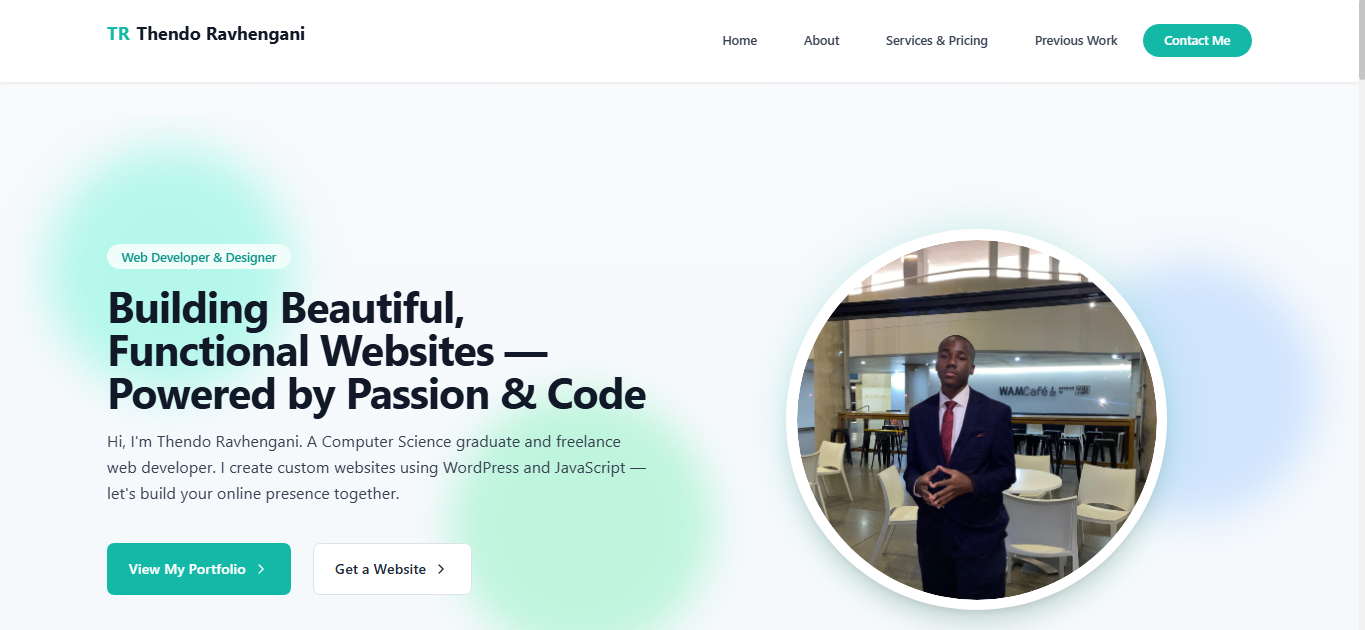
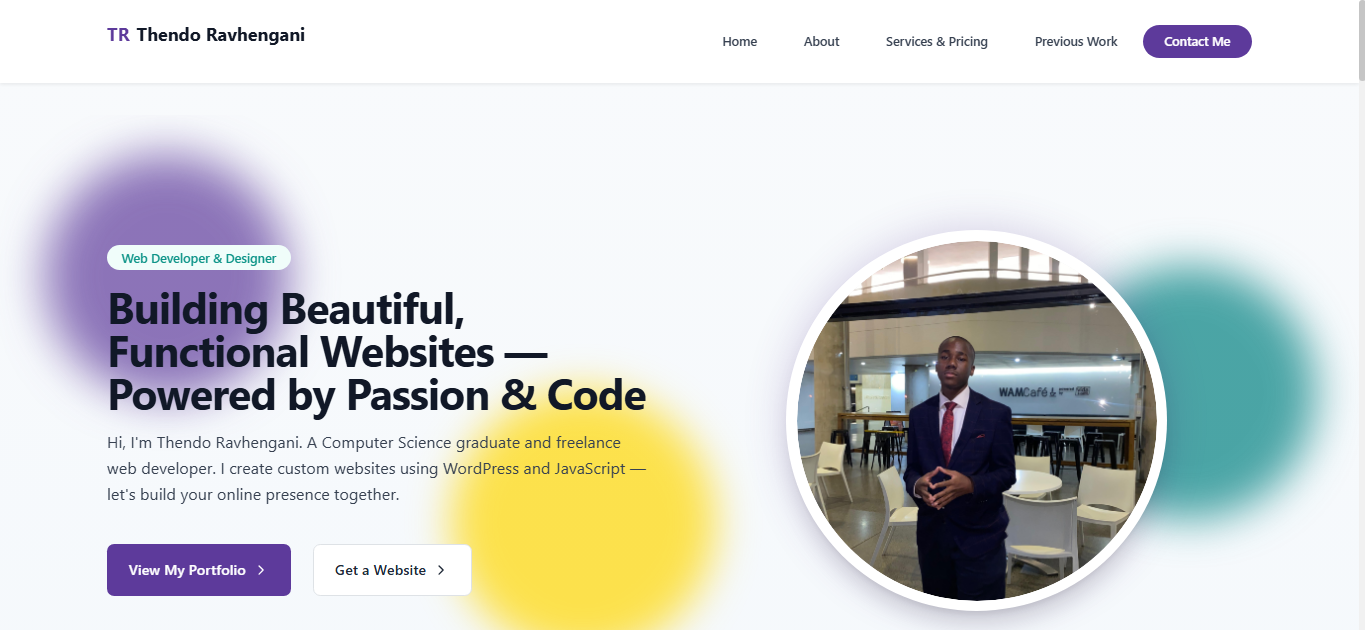
Update button styles and colors in ContactForm and WorkPage components

diff --git a/src/components/WorkPage.jsx b/src/components/WorkPage.jsx
@@ -28,6 +28,7 @@ import project1 from "../assets/witssdasm.png";
 import project3 from "../assets/phapano.png";
 import project2 from "../assets/fat-guys.jpg";
 import commongrounds from "../assets/commongrounds.png";
+import campusSafety from "../assets/campusSafety.png";
 import testimonial1 from "../assets/profile.jpg";
 import testimonial2 from "../assets/profile.jpg";
 import testimonial3 from "../assets/profile.jpg";
@@ -137,7 +138,7 @@ export default function WorkPage() {
     custom: [
       {
         title: "Campus Safety App",
-        image: testimonial3,
+        image: campusSafety,
         description:
           "Real-time campus security application with incident reporting.",
         technologies: ["React", "Node.js", "MongoDB", "Express"],
@@ -181,7 +182,7 @@ export default function WorkPage() {
         "Contact form",
         "Social media integration",
       ],
-      color: "from-teal-500 to-emerald-500",
+      color: "from-teal-600 to-emerald-600",
     },
     {
       title: "Business Website",
@@ -294,26 +295,26 @@ export default function WorkPage() {
               href="#"
               className="text-xl font-bold text-gray-900 flex items-center gap-2 no-underline"
             >
-              <p className="text-teal-500 no-underline">TR</p>
+              <p className="text-[#5D3A9B] no-underline">TR</p>
               <p className="hidden sm:inline no-underline">Thendo Ravhengani</p>
             </a>
 
             <nav className="hidden md:flex items-center space-x-1">
               <button
                 onClick={() => scrollToSection("home")}
-                className="px-4 py-2 text-sm font-medium text-gray-700 hover:text-teal-600 transition-colors"
+                className="px-4 py-2 text-sm font-medium text-gray-700 hover:text-[#5D3A9B] transition-colors"
               >
                 Home
               </button>
               <button
                 onClick={() => scrollToSection("about")}
-                className="px-4 py-2 text-sm font-medium text-gray-700 hover:text-teal-600 transition-colors"
+                className="px-4 py-2 text-sm font-medium text-gray-700 hover:text-[#5D3A9B] transition-colors"
               >
                 About
               </button>
               <button
                 onClick={() => scrollToSection("services")}
-                className="px-4 py-2 text-sm font-medium text-gray-700 hover:text-teal-600 transition-colors"
+                className="px-4 py-2 text-sm font-medium text-gray-700 hover:text-[#5D3A9B] transition-colors"
               >
                 Services & Pricing 
               </button>
@@ -325,13 +326,13 @@ export default function WorkPage() {
               </button> */}
               <button
                 onClick={() => scrollToSection("portfolio")}
-                className="px-4 py-2 text-sm font-medium text-gray-700 hover:text-teal-600 transition-colors"
+                className="px-4 py-2 text-sm font-medium text-gray-700 hover:text-[#5D3A9B] transition-colors"
               >
                 Previous Work
               </button>
               <button
                 onClick={() => scrollToSection("contact")}
-                className="ml-2 px-4 py-2 text-sm font-medium bg-teal-500 text-white rounded-full hover:bg-teal-600 transition-colors"
+                className="ml-2 px-4 py-2 text-sm font-medium bg-[#5D3A9B] text-white rounded-full hover:bg-[#9668e6] transition-colors"
               >
                 Contact Me
               </button>
@@ -363,9 +364,9 @@ export default function WorkPage() {
         <section id="home" className="relative overflow-hidden py-20 md:py-32">
           {/* Animated background elements */}
           <div className="absolute inset-0 z-0">
-            <div className="absolute top-20 left-10 w-64 h-64 rounded-full bg-teal-200 mix-blend-multiply filter blur-xl opacity-70 animate-blob"></div>
-            <div className="absolute top-40 right-10 w-72 h-72 rounded-full bg-blue-200 mix-blend-multiply filter blur-xl opacity-70 animate-blob animation-delay-2000"></div>
-            <div className="absolute bottom-20 left-1/3 w-80 h-80 rounded-full bg-emerald-200 mix-blend-multiply filter blur-xl opacity-70 animate-blob animation-delay-4000"></div>
+            <div className="absolute top-20 left-10 w-64 h-64 rounded-full bg-[#5D3A9B] mix-blend-multiply filter blur-xl opacity-70 animate-blob"></div>
+            <div className="absolute top-40 right-10 w-72 h-72 rounded-full bg-[#008080] mix-blend-multiply filter blur-xl opacity-70 animate-blob animation-delay-2000"></div>
+            <div className="absolute bottom-20 left-1/3 w-80 h-80 rounded-full bg-[#FFD700] mix-blend-multiply filter blur-xl opacity-70 animate-blob animation-delay-4000"></div>
           </div>
 
           <div className="container mx-auto px-4 md:px-6 relative z-10">
@@ -394,7 +395,7 @@ export default function WorkPage() {
                   <div className="flex flex-wrap gap-4 pt-4">
                     <a
                       href="/"
-                      className="px-6 py-3 text-base no-underline font-medium bg-teal-500 text-white rounded-lg hover:bg-teal-600 transition-colors flex items-center gap-2"
+                      className="px-6 py-3 text-base no-underline font-medium bg-[#5D3A9B] text-white rounded-lg hover:bg-[#9d70f1] transition-colors flex items-center gap-2"
                     >
                       View My Portfolio
                       <ChevronRight size={18} />
@@ -417,7 +418,7 @@ export default function WorkPage() {
                 className="relative mx-auto lg:ml-auto"
               >
                 <div className="relative">
-                  <div className="absolute inset-0 bg-gradient-to-br from-teal-500 to-emerald-500 rounded-full blur-xl opacity-20 animate-pulse"></div>
+                  <div className="absolute inset-0 bg-gradient-to-br from-[#5D3A9B] to-[#422674] rounded-full blur-xl opacity-20 animate-pulse"></div>
                   <div className="relative bg-white p-2 rounded-full shadow-xl">
                     <div className="rounded-full overflow-hidden border-4 border-white shadow-inner">
                       <img
@@ -447,12 +448,12 @@ export default function WorkPage() {
         >
           <div className="container mx-auto px-4 md:px-6">
             <div className="flex flex-col items-center justify-center space-y-4 text-center mb-12">
-              <div className="inline-block bg-gradient-to-r from-teal-500/10 to-emerald-500/10 px-4 py-1.5 rounded-full">
-                <h2 className="text-3xl font-bold tracking-tight bg-clip-text text-transparent bg-gradient-to-r from-teal-600 to-emerald-600">
+              <div className="inline-block bg-gradient-to-r from-[#5D3A9B]/10 to-[#5D3A9B]/10 px-4 py-1.5 rounded-full">
+                <h2 className="text-3xl font-bold tracking-tight bg-clip-text text-transparent bg-gradient-to-r from-[#7c5cb4] to-[#5D3A9B]">
                   Who I Am
                 </h2>
               </div>
-              <div className="h-1 w-20 bg-gradient-to-r from-teal-500 to-emerald-500 rounded-full my-2"></div>
+              <div className="h-1 w-20 bg-gradient-to-r from-[#7c5cb4] to-[#5D3A9B] rounded-full my-2"></div>
             </div>
 
             <div className="grid md:grid-cols-2 gap-12 items-center">
@@ -506,7 +507,7 @@ export default function WorkPage() {
                   </div>
                 </div>
                 <a href="/#education" className=" block no-underline mt-3">
-                  <div className="bg-gradient-to-r from-teal-50 to-emerald-50 rounded-lg p-6">
+                  <div className="bg-gradient-to-r from-[#7c5cb4]/5 to-[#5D3A9B]/5 rounded-lg p-6">
                     <h4 className="font-bold text-gray-800 mb-2">Education</h4>
                     <p className="text-gray-700">
                       <span className="font-medium">BSc Honors in Computer Science</span>
@@ -533,12 +534,12 @@ export default function WorkPage() {
         >
           <div className="container mx-auto px-4 md:px-6">
             <div className="flex flex-col items-center justify-center space-y-4 text-center mb-12">
-              <div className="inline-block bg-gradient-to-r from-teal-500/10 to-emerald-500/10 px-4 py-1.5 rounded-full">
-                <h2 className="text-3xl font-bold tracking-tight bg-clip-text text-transparent bg-gradient-to-r from-teal-600 to-emerald-600">
+              <div className="inline-block bg-gradient-to-r from-[#7c5cb4]/10 to-[#5D3A9B]/10 px-4 py-1.5 rounded-full">
+                <h2 className="text-3xl font-bold tracking-tight bg-clip-text text-transparent bg-gradient-to-r from-[#7c5cb4] to-[#5D3A9B]">
                   Website Services I Provide
                 </h2>
               </div>
-              <div className="h-1 w-20 bg-gradient-to-r from-teal-500 to-emerald-500 rounded-full my-2"></div>
+              <div className="h-1 w-20 bg-gradient-to-r from-[#7c5cb4] to-[#5D3A9B] rounded-full my-2"></div>
               <p className="max-w-[800px] text-gray-700 text-lg">
                 From simple portfolio sites to full-featured eCommerce
                 platforms, I offer a range of web development services tailored
@@ -576,7 +577,7 @@ export default function WorkPage() {
                         <span className="text-sm font-medium text-gray-700 mr-2">
                           Starting at:
                         </span>
-                        <span className="text-sm font-bold text-teal-600">
+                        <span className="text-sm font-bold text-[#5D3A9B]">
                           {service.startingPrice}
                         </span>
                       </div>
@@ -592,7 +593,7 @@ export default function WorkPage() {
                             className="text-sm text-gray-600 flex items-start"
                           >
                             <svg
-                              className="h-5 w-5 text-teal-500 mr-2 flex-shrink-0"
+                              className="h-5 w-5 text-[#5D3A9B] mr-2 flex-shrink-0"
                               fill="none"
                               viewBox="0 0 24 24"
                               stroke="currentColor"
@@ -731,12 +732,12 @@ export default function WorkPage() {
         >
           <div className="container mx-auto px-4 md:px-6">
             <div className="flex flex-col items-center justify-center space-y-4 text-center mb-12">
-              <div className="inline-block bg-gradient-to-r from-teal-500/10 to-emerald-500/10 px-4 py-1.5 rounded-full">
-                <h2 className="text-3xl font-bold tracking-tight bg-clip-text text-transparent bg-gradient-to-r from-teal-600 to-emerald-600">
+              <div className="inline-block bg-gradient-to-r from-[#7c5cb4]/10 to-[#5D3A9B]/10 px-4 py-1.5 rounded-full">
+                <h2 className="text-3xl font-bold tracking-tight bg-clip-text text-transparent bg-gradient-to-r from-[#7c5cb4] to-[#5D3A9B]">
                   Previous Work
                 </h2>
               </div>
-              <div className="h-1 w-20 bg-gradient-to-r from-teal-500 to-emerald-500 rounded-full my-2"></div>
+              <div className="h-1 w-20 bg-gradient-to-r from-[#7c5cb4] to-[#5D3A9B] rounded-full my-2"></div>
               <p className="max-w-[800px] text-gray-700 text-lg">
                 Browse through my recent projects to see examples of my work and
                 the range of websites I've created.
@@ -750,7 +751,7 @@ export default function WorkPage() {
                   onClick={() => setActiveTab("wordpress")}
                   className={`px-4 py-2 text-sm font-medium rounded-md ${
                     activeTab === "wordpress"
-                      ? "bg-white text-teal-600 shadow-sm"
+                      ? "bg-white text-[#5D3A9B] shadow-sm"
                       : "text-gray-600 hover:text-gray-900"
                   }`}
                 >
@@ -760,7 +761,7 @@ export default function WorkPage() {
                   onClick={() => setActiveTab("custom")}
                   className={`px-4 py-2 text-sm font-medium rounded-md ${
                     activeTab === "custom"
-                      ? "bg-white text-teal-600 shadow-sm"
+                      ? "bg-white text-[#5D3A9B] shadow-sm"
                       : "text-gray-600 hover:text-gray-900"
                   }`}
                 >
@@ -802,7 +803,7 @@ export default function WorkPage() {
                     </div>
                     <a
                       href={project.link}
-                      className="inline-flex items-center text-teal-600 hover:text-teal-700 font-medium"
+                      className="inline-flex items-center text-[#5D3A9B] hover:text-[#422674] font-medium"
                     >
                       View Project <ArrowRight size={16} className="ml-1" />
                     </a>
@@ -833,17 +834,17 @@ export default function WorkPage() {
         >
           <div className="container mx-auto px-4 md:px-6">
             <div className="flex flex-col items-center justify-center space-y-4 text-center mb-12">
-              <div className="inline-block bg-gradient-to-r from-teal-500/10 to-emerald-500/10 px-4 py-1.5 rounded-full">
-                <h2 className="text-3xl font-bold tracking-tight bg-clip-text text-transparent bg-gradient-to-r from-teal-600 to-emerald-600">
+              <div className="inline-block bg-gradient-to-r from-[#7c5cb4]/10 to-[#5D3A9B]/10 px-4 py-1.5 rounded-full">
+                <h2 className="text-3xl font-bold tracking-tight bg-clip-text text-transparent bg-gradient-to-r from-[#7c5cb4] to-[#5D3A9B]">
                   What My Clients Say
                 </h2>
               </div>
-              <div className="h-1 w-20 bg-gradient-to-r from-teal-500 to-emerald-500 rounded-full my-2"></div>
+              <div className="h-1 w-20 bg-gradient-to-r from-[#7c5cb4] to-[#5D3A9B] rounded-full my-2"></div>
             </div>
 
             <div className="max-w-4xl mx-auto mt-12 relative">
-              <div className="relative overflow-hidden rounded-2xl bg-gradient-to-r from-teal-50 to-emerald-50 p-8 md:p-12 shadow-sm">
-                <div className="absolute top-0 left-0 w-20 h-20 text-teal-200 opacity-20">
+              <div className="relative overflow-hidden rounded-2xl bg-gradient-to-r from-[#7c5cb4]/5 to-[#5D3A9B]/5 p-8 md:p-12 shadow-sm">
+                <div className="absolute top-0 left-0 w-20 h-20 text-[#5D3A9B] opacity-20">
                   <svg
                     xmlns="http://www.w3.org/2000/svg"
                     fill="currentColor"
@@ -899,7 +900,7 @@ export default function WorkPage() {
                     onClick={() => setActiveTestimonial(index)}
                     className={`w-3 h-3 rounded-full ${
                       activeTestimonial === index
-                        ? "bg-teal-500"
+                        ? "bg-[#5D3A9B]"
                         : "bg-gray-300 hover:bg-gray-400"
                     } transition-colors`}
                     aria-label={`View testimonial ${index + 1}`}
@@ -920,12 +921,12 @@ export default function WorkPage() {
         >
           <div className="container mx-auto px-4 md:px-6">
             <div className="flex flex-col items-center justify-center space-y-4 text-center mb-12">
-              <div className="inline-block bg-gradient-to-r from-teal-500/10 to-emerald-500/10 px-4 py-1.5 rounded-full">
-                <h2 className="text-3xl font-bold tracking-tight bg-clip-text text-transparent bg-gradient-to-r from-teal-600 to-emerald-600">
+              <div className="inline-block bg-gradient-to-r from-[#7c5cb4]/10 to-[#5D3A9B]/10 px-4 py-1.5 rounded-full">
+                <h2 className="text-3xl font-bold tracking-tight bg-clip-text text-transparent bg-gradient-to-r from-[#7c5cb4] to-[#5D3A9B]">
                   Let's Work Together
                 </h2>
               </div>
-              <div className="h-1 w-20 bg-gradient-to-r from-teal-500 to-emerald-500 rounded-full my-2"></div>
+              <div className="h-1 w-20 bg-gradient-to-r from-[#7c5cb4] to-[#5D3A9B] rounded-full my-2"></div>
               <p className="max-w-[800px] text-gray-700 text-lg">
                 Ready to start your project? Get in touch and let's discuss how
                 I can help bring your vision to life.
@@ -935,14 +936,14 @@ export default function WorkPage() {
             <div className="max-w-4xl mx-auto grid md:grid-cols-5 gap-8 mt-12">
               <div className="md:col-span-2 space-y-6">
                 <div className="bg-white rounded-xl shadow-md p-6 flex items-start">
-                  <div className="bg-teal-100 p-3 rounded-full mr-4">
-                    <Mail className="h-6 w-6 text-teal-600" />
+                  <div className="bg-[#e4daf5] p-3 rounded-full mr-4">
+                    <Mail className="h-6 w-6 text-[#5D3A9B]" />
                   </div>
                   <div>
                     <h3 className="font-bold text-gray-800 mb-1">Email Me</h3>
                     <a
                       href="mailto:thendorav@gmail.com"
-                      className="text-teal-600 hover:underline"
+                      className="text-[#5D3A9B] hover:underline"
                     >
                       thendorav@gmail.com
                     </a>
@@ -950,14 +951,14 @@ export default function WorkPage() {
                 </div>
 
                 <div className="bg-white rounded-xl shadow-md p-6 flex items-start">
-                  <div className="bg-teal-100 p-3 rounded-full mr-4">
-                    <MessageSquare className="h-6 w-6 text-teal-600" />
+                  <div className="bg-[#e4daf5] p-3 rounded-full mr-4">
+                    <MessageSquare className="h-6 w-6 text-[#5D3A9B]" />
                   </div>
                   <div>
                     <h3 className="font-bold text-gray-800 mb-1">WhatsApp</h3>
                     <a
                       href="https://wa.me/27622154782"
-                      className="text-teal-600 hover:underline"
+                      className="text-[#5D3A9B] hover:underline"
                     >
                       +27 62 215 4782
                     </a>
@@ -1089,7 +1090,7 @@ export default function WorkPage() {
           <div className="grid md:grid-cols-4 gap-8">
             <div className="md:col-span-2">
               <div className="text-2xl font-bold mb-4 flex items-center">
-                <span className="text-teal-400 mr-2">TR</span>
+                <span className="text-[#5D3A9B] mr-2">TR</span>
                 Thendo Ravhengani
               </div>
               <p className="text-gray-400 max-w-md">
@@ -1104,7 +1105,7 @@ export default function WorkPage() {
                 <li>
                   <button
                     onClick={() => scrollToSection("home")}
-                    className="text-gray-400 hover:text-teal-400"
+                    className="text-gray-400 hover:text-[#5D3A9B]"
                   >
                     Home
                   </button>
@@ -1112,7 +1113,7 @@ export default function WorkPage() {
                 <li>
                   <button
                     onClick={() => scrollToSection("about")}
-                    className="text-gray-400 hover:text-teal-400"
+                    className="text-gray-400 hover:text-[#5D3A9B]"
                   >
                     About
                   </button>
@@ -1120,7 +1121,7 @@ export default function WorkPage() {
                 <li>
                   <button
                     onClick={() => scrollToSection("services")}
-                    className="text-gray-400 hover:text-teal-400"
+                    className="text-gray-400 hover:text-[#5D3A9B]"
                   >
                     Services & Pricing
                   </button>
@@ -1128,7 +1129,7 @@ export default function WorkPage() {
                 <li>
                   <button
                     onClick={() => scrollToSection("portfolio")}
-                    className="text-gray-400 hover:text-teal-400"
+                    className="text-gray-400 hover:text-[#5D3A9B]"
                   >
                     Previous Work
                   </button>
@@ -1144,7 +1145,7 @@ export default function WorkPage() {
                 <li>
                   <button
                     onClick={() => scrollToSection("contact")}
-                    className="text-gray-400 hover:text-teal-400"
+                    className="text-gray-400 hover:text-[#5D3A9B]"
                   >
                     Contact
                   </button>

diff --git a/src/components/ContactForm.jsx b/src/components/ContactForm.jsx
@@ -142,7 +142,7 @@ const ContactForm = () => {
             <button
               type="submit"
               disabled={isSubmitting}
-              className="w-full py-3 bg-teal-500 text-white font-medium rounded-lg hover:bg-teal-600 transition-colors disabled:opacity-50"
+              className="w-full py-3 bg-[#5D3A9B] text-white font-medium rounded-lg hover:bg-[#8b5adf] transition-colors disabled:opacity-50"
             >
               {isSubmitting ? "Sending..." : "Send Message"}
             </button>
